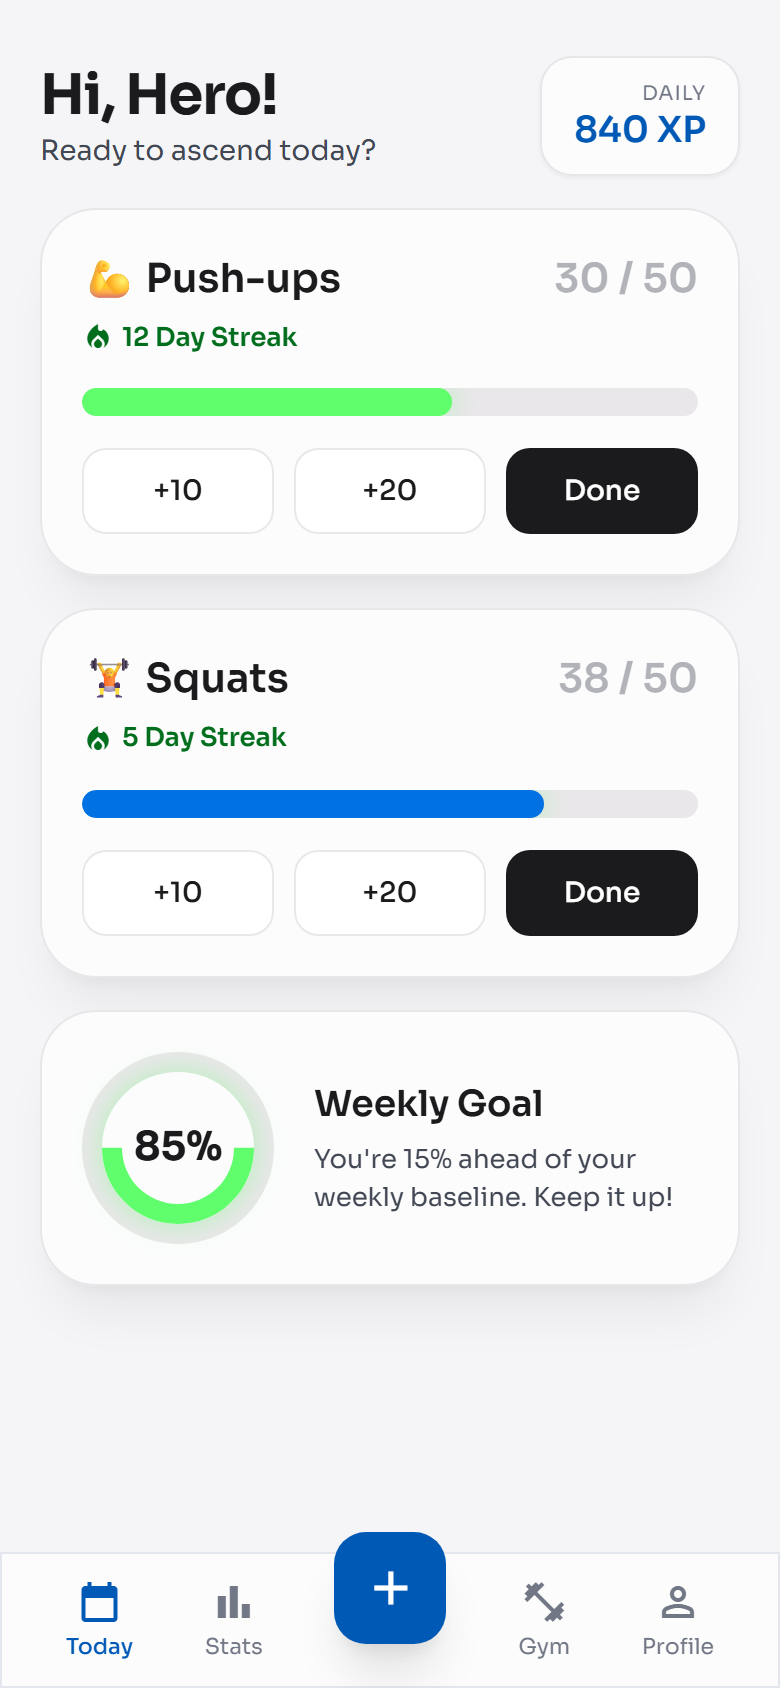
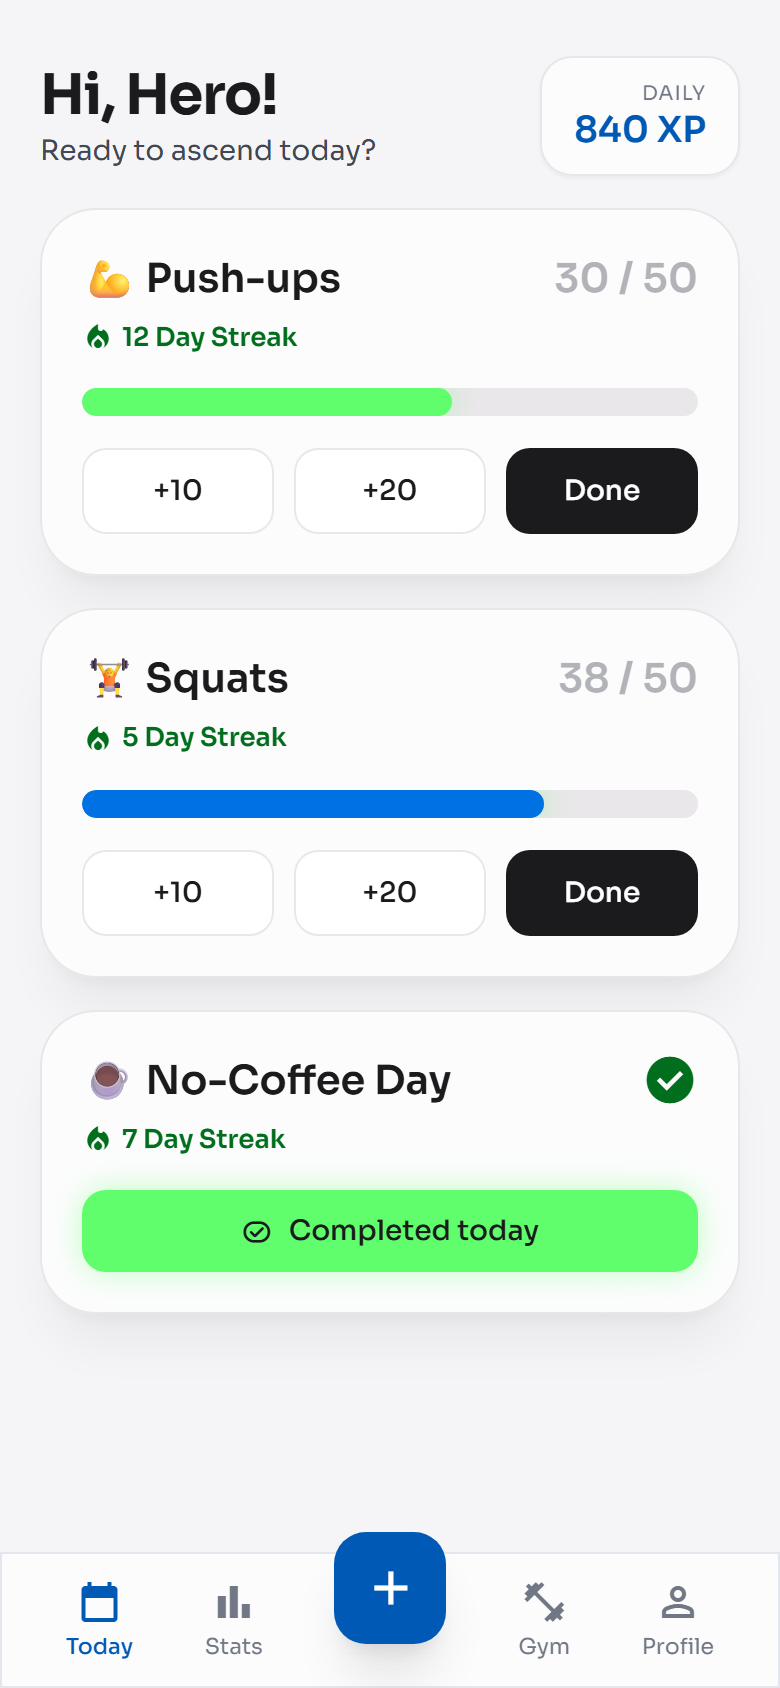
feat: default habits = Push-ups, Squats, No-Coffee Day (English)
- worker: trim seeded defaults to three standard habits
- design: desktop & mobile mockups show the same three (added a simple
  "No-Coffee Day" card with a Completed-today state); re-rendered PNGs

Changed region(s): [[0.0923, 0.6161, 0.9231, 0.7701]]

diff --git a/design/today-mobile-light.html b/design/today-mobile-light.html
@@ -92,16 +92,21 @@
       </div>
     </div>
 
-    <!-- Weekly Goal -->
-    <div class="glass-panel rounded-[28px] p-5 shadow-xl shadow-on-surface/5 flex items-center gap-5">
-      <div class="w-24 h-24 shrink-0 rounded-full border-[10px] border-surface-container-high flex items-center justify-center relative">
-        <div class="absolute inset-0 rounded-full border-[10px] border-secondary-container border-t-transparent border-r-transparent -rotate-45 neon-glow"></div>
-        <span class="text-[20px] font-bold">85%</span>
+    <!-- No-Coffee Day (simple) -->
+    <div class="glass-panel rounded-[28px] p-5 shadow-xl shadow-on-surface/5 flex flex-col gap-4">
+      <div class="flex justify-between items-start">
+        <div class="flex flex-col gap-1">
+          <span class="text-[20px] font-semibold">☕ No-Coffee Day</span>
+          <div class="flex items-center gap-1 text-secondary font-semibold">
+            <span class="material-symbols-outlined text-[16px]" style="font-variation-settings:'FILL' 1;">local_fire_department</span>
+            <span class="text-[13px]">7 Day Streak</span>
+          </div>
+        </div>
+        <span class="material-symbols-outlined text-secondary text-[28px]" style="font-variation-settings:'FILL' 1;">check_circle</span>
       </div>
-      <div>
-        <h3 class="text-[18px] font-semibold mb-1">Weekly Goal</h3>
-        <p class="text-[13px] text-on-surface-variant">You're 15% ahead of your weekly baseline. Keep it up!</p>
-      </div>
+      <button class="w-full py-2.5 bg-secondary-container text-on-surface rounded-xl text-[14px] font-medium neon-glow flex items-center justify-center gap-2">
+        <span class="material-symbols-outlined text-[16px]">task_alt</span> Completed today
+      </button>
     </div>
 
   </main>

diff --git a/design/today-desktop-light.html b/design/today-desktop-light.html
@@ -237,26 +237,22 @@
 </div>
 </div>
 </div>
-<!-- Habit Card: Push-ups -->
+<!-- Habit Card: No-Coffee Day (simple) -->
 <div class="col-span-12 md:col-span-6 lg:col-span-4 glass-panel rounded-[32px] p-md shadow-xl shadow-on-surface/5 flex flex-col gap-md group hover:border-primary/30 transition-all duration-500">
 <div class="flex justify-between items-start">
 <div class="flex flex-col gap-1">
-<span class="text-headline-md font-headline-md">📖 Reading</span>
+<span class="text-headline-md font-headline-md">☕ No-Coffee Day</span>
 <div class="flex items-center gap-1 text-secondary font-semibold">
 <span class="material-symbols-outlined text-[18px]" data-icon="local_fire_department" style="font-variation-settings: 'FILL' 1;">local_fire_department</span>
-<span class="text-label-md font-label-md">28 Day Streak</span>
+<span class="text-label-md font-label-md">7 Day Streak</span>
 </div>
 </div>
-<span class="text-headline-md font-headline-md text-on-surface-variant/40 group-hover:text-primary transition-colors">40 / 50</span>
+<span class="material-symbols-outlined text-secondary text-[32px]" style="font-variation-settings: 'FILL' 1;">check_circle</span>
 </div>
-<div class="w-full h-4 bg-surface-container-high rounded-full overflow-hidden relative">
-<div class="absolute top-0 left-0 h-full bg-secondary-container neon-glow transition-all duration-700 ease-out" style="width: 80%"></div>
-</div>
-<div class="grid grid-cols-3 gap-sm mt-auto">
-<button class="glass-panel py-3 rounded-xl text-label-md font-label-md hover:bg-surface-container-highest transition-colors active:scale-95">+5</button>
-<button class="glass-panel py-3 rounded-xl text-label-md font-label-md hover:bg-surface-container-highest transition-colors active:scale-95">+10</button>
-<button class="bg-on-surface text-on-primary py-3 rounded-xl text-label-md font-label-md hover:opacity-90 transition-opacity active:scale-95">Done</button>
-</div>
+<p class="text-body-md font-body-md text-on-surface-variant">A simple yes/no habit — just mark it done once a day.</p>
+<button class="mt-auto w-full py-3 bg-secondary-container text-on-surface rounded-xl text-label-md font-label-md neon-glow flex items-center justify-center gap-2">
+<span class="material-symbols-outlined text-[18px]">task_alt</span> Completed today
+</button>
 </div>
 <!-- Activity History (Asymmetric Bento) -->
 <div class="col-span-12 lg:col-span-8 glass-panel rounded-[32px] p-md shadow-xl shadow-on-surface/5">

diff --git a/_worker.js b/_worker.js
@@ -307,9 +307,7 @@ async function seedDefaultActivities(env, uid) {
   const defaults = [
     ["💪 Push-ups", "reps", "#0059b5", 50, "numeric", 10, 20, 30, 0],
     ["🏋️ Squats", "reps", "#be185d", 50, "numeric", 10, 20, 30, 1],
-    ["📖 Reading", "pages", "#006e1c", 20, "numeric", 5, 10, 25, 2],
-    ["🧘 Meditation", "", "#8c21c0", 1, "simple", null, null, null, 3],
-    ["☕ No-Coffee Day", "", "#c2410c", 1, "simple", null, null, null, 4],
+    ["☕ No-Coffee Day", "", "#c2410c", 1, "simple", null, null, null, 2],
   ];
   for (const [name, unit, color, goal, type, qa1, qa2, qa3, sort] of defaults) {
     await env.DB.prepare(